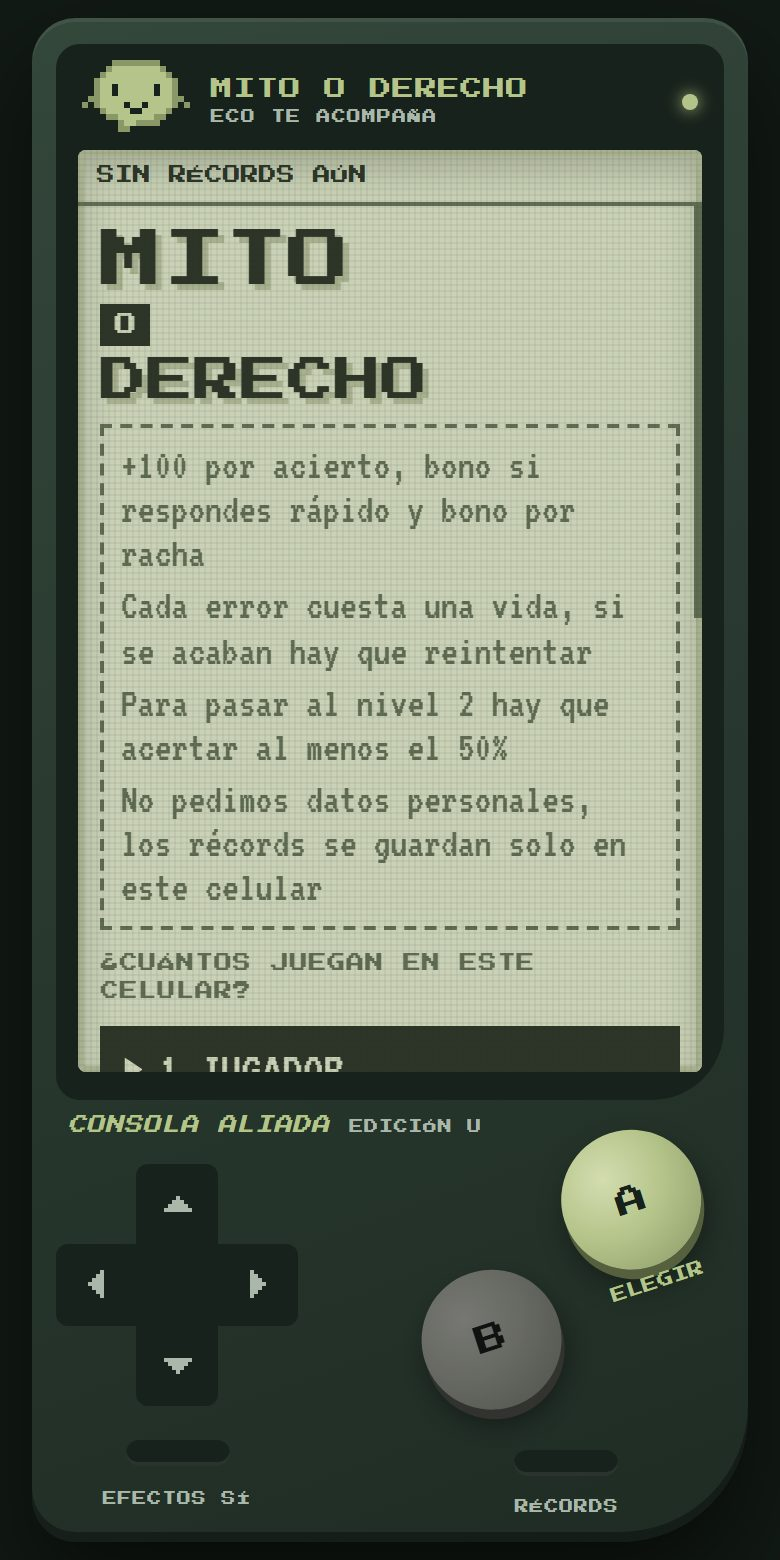
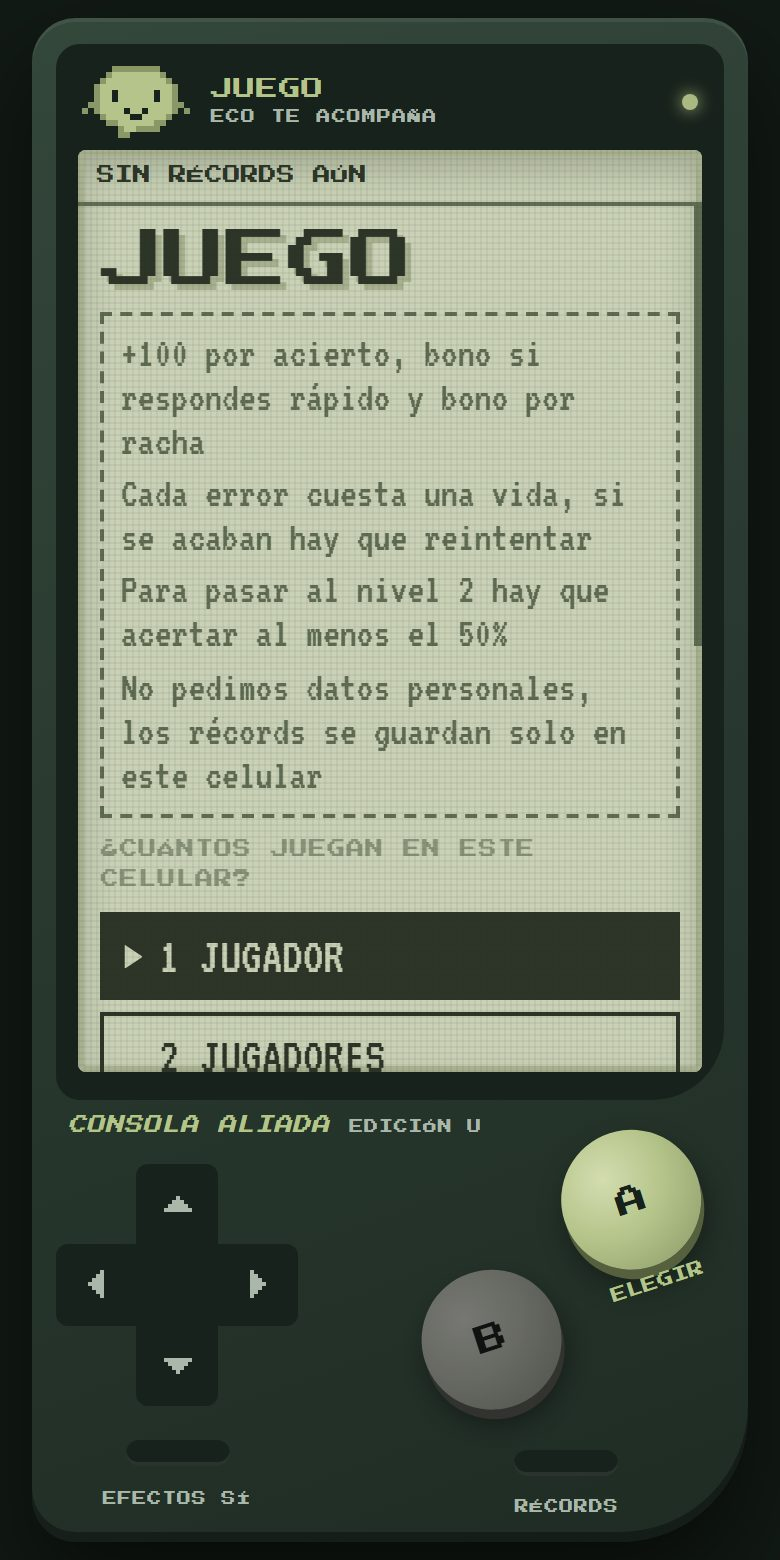
El juego se llama solo Juego mientras se vota, sin Parcerx; fuente de la lengua de señas
- contenido.js: nombre Juego; la lengua de señas cita la Ley 324 de 1996 y la Ley 982 de 2005
- Plana sin personaje mientras se vota; la arcade toma el nombre de contenido.js
- Capturas de la sección rehechas con el nombre nuevo

diff --git a/public/juego/arcade/index.html b/public/juego/arcade/index.html
@@ -1,5 +1,5 @@
 <!doctype html><html><head><meta charset=utf8><meta name=viewport content="width=device-width,initial-scale=1,viewport-fit=cover"><style>:root{color-scheme:light;box-sizing:border-box;padding-top:env(safe-area-inset-top,0px);padding-bottom:env(safe-area-inset-bottom,0px)}html{scroll-padding-top:env(safe-area-inset-top,0px)}body{margin:0;padding:0;font:14px -apple-system,BlinkMacSystemFont,sans-serif;background:#fff;color:#000}img{max-width:100%}[hidden]:not([hidden=until-found i]){display:none!important}</style></head><body>
-<title>Mito o Derecho Arcade</title>
+<title>Juego · Arcade</title>
 <meta name="claude:viewport-fit-sides" content="cover">
 <link rel="preconnect" href="https://fonts.googleapis.com">
 <link rel="preconnect" href="https://fonts.gstatic.com" crossorigin>
@@ -330,7 +330,7 @@ svg.px { display: block; shape-rendering: crispEdges; flex: none; }
 <div class="wrap">
   <div class="console">
     <div class="bezel">
-      <div class="bezel-top"><canvas class="mascot" id="mascot" width="18" height="12" aria-hidden="true"></canvas><div class="wordmark"><b>MITO O DERECHO</b><span class="say" id="say">ECO TE ACOMPAÑA</span></div><button type="button" class="menu-btn" id="btn-menu" hidden>MENÚ</button><span class="led" aria-hidden="true"></span></div>
+      <div class="bezel-top"><canvas class="mascot" id="mascot" width="18" height="12" aria-hidden="true"></canvas><div class="wordmark"><b>JUEGO</b><span class="say" id="say">ECO TE ACOMPAÑA</span></div><button type="button" class="menu-btn" id="btn-menu" hidden>MENÚ</button><span class="led" aria-hidden="true"></span></div>
       <div class="lcd" id="lcd">
         <div class="hud" id="hud"></div>
         <div class="screen" id="screen" aria-live="polite"></div>
@@ -441,6 +441,7 @@ const STREAK_STEP = RG.racha;    // bono por cada acierto seguido
 const ALLY_PTS = RG.aliado;      // por cada situación de la parte 2
 const LIFE_PTS = RG.vida;        // bono final por cada vida que quede
 const GOAL = RG.meta;            // porcentaje mínimo de aciertos para pasar al nivel 2
+const GAME_NAME = J ? J.nombre : "Juego";
 const livesFor = (m, n) => J ? J.vidasDe(m, n) : m === "coop" ? n + 1 : RG.vidas;
 const goalTxt = "META " + Math.round(GOAL * 100) + "%";
 const HELP = J ? J.ayuda : [
@@ -928,9 +929,9 @@ function title() {
   phase = "title";
   clear(); hud();
   const logo = el("div", "logo");
-  logo.appendChild(el("span", "m", "MITO"));
-  logo.appendChild(el("span", "o", "O"));
-  logo.appendChild(el("span", "d", "DERECHO"));
+  const nm = GAME_NAME.toUpperCase().split(" ");
+  if (nm.length === 3) { logo.appendChild(el("span", "m", nm[0])); logo.appendChild(el("span", "o", nm[1])); logo.appendChild(el("span", "d", nm[2])); }
+  else logo.appendChild(el("span", "m", nm.join(" ")));
   screen.appendChild(logo);
   eco("idle", "ECO TE ACOMPAÑA");
   const rules = el("div", "rules");
@@ -1365,7 +1366,7 @@ function results_() {
 
   const best = mode === "versus" ? Math.max(...scores) : team();
   const msg = [
-    (players === 1 ? "Mi perfil" : mode === "coop" ? "El perfil de nuestro equipo" : "El perfil de nuestro grupo") + " de aliado en Mito o Derecho es " + prof.name,
+    (players === 1 ? "Mi perfil" : mode === "coop" ? "El perfil de nuestro equipo" : "El perfil de nuestro grupo") + " de aliado en " + GAME_NAME + " es " + prof.name,
     prof.phrase,
     "Para mañana: " + prof.action,
     players === 1 ? "Hice " + best + " puntos" : mode === "coop" ? "Hicimos " + best + " puntos en equipo" : "El mejor puntaje fue " + best,
@@ -1579,6 +1580,8 @@ try { savedPal = localStorage.getItem("moda-palette") || "musgo"; } catch (e) {}
 applyPalette(savedPal);
 paintSound();
 title();
+document.querySelector(".wordmark b").textContent = GAME_NAME.toUpperCase();
+document.title = GAME_NAME + " · Arcade";
 if (J) J.cargar();
 </script>
 

diff --git a/public/juego/plana/index.html b/public/juego/plana/index.html
@@ -3,7 +3,7 @@
 <head>
 <meta charset="utf-8">
 <meta name="viewport" content="width=device-width, initial-scale=1">
-<title>Mito o Derecho · ACUDE</title>
+<title>Juego · ACUDE</title>
 <meta name="description" content="Juego sobre diversidad, género e inclusión en el TdeA, construido clase a clase por estudiantes del ACUDE Herramientas de IA">
 <link rel="preconnect" href="https://fonts.googleapis.com">
 <link rel="preconnect" href="https://fonts.gstatic.com" crossorigin>
@@ -19,7 +19,7 @@
    vive en juego/contenido.js; aquí queda solo lo propio de la versión plana */
 const J = window.JUEGO;
 const CONFIG = Object.assign({}, J, {
-  personaje: "Parcerx",                     // Sábado 10-12: personaje y tono
+  personaje: "",                           // Sábado 10-12: personaje y tono, se vota; vacío mientras tanto
   bienvenida: "No te pregunto lo que sabes\nte pregunto lo que harías",
   version: "v0.3",
   // Música de fondo, la misma de la versión arcade
@@ -188,8 +188,8 @@ const partes = t => (t||"").split("||").map(x=>x.trim()).filter(Boolean);
 const esc = t => String(t||"").replace(/[&<>"]/g, c=>({"&":"&amp;","<":"&lt;",">":"&gt;",'"':"&quot;"}[c]));
 const de = tipo => DATOS.filter(r => (r.tipo||"").toLowerCase().trim()===tipo && (r.estado||"").toLowerCase()!=="descartada");
 const quieto = () => window.matchMedia("(prefers-reduced-motion: reduce)").matches;
-const guardar = (k, v) => { try { localStorage.setItem("vuelta-" + k, v); } catch (e) {} };
-const leer = k => { try { return localStorage.getItem("vuelta-" + k); } catch (e) { return null; } };
+const guardar = (k, v) => { try { localStorage.setItem("juego-" + k, v); } catch (e) {} };
+const leer = k => { try { return localStorage.getItem("juego-" + k); } catch (e) { return null; } };
 
 async function cargarHoja(){
   if (await J.cargar()) { DATOS = J.filas; $("#ver").textContent = CONFIG.version + " · en vivo"; }
@@ -457,7 +457,7 @@ function inicio(){
   titulo.append(h("span", { class: "l" }, n.at(-1)));
   const mejor = cargarRecords()[0];
   pantalla(
-    etq(CONFIG.personaje + " te invita"),
+    etq(CONFIG.personaje ? CONFIG.personaje + " te invita" : "Te damos la bienvenida"),
     titulo,
     h("p", { class: "lead" }, CONFIG.bienvenida),
     h("span", { class: "chip-rec" }, mejor ? "Récord de este celular: " + mejor.ini + " · " + mejor.pts : "Todavía no hay récords en este celular"),
@@ -469,7 +469,7 @@ function inicio(){
       h("ul", {}, CONFIG.creditos.length ? CONFIG.creditos.map(c => h("li", {}, c)) : h("li", {}, "Todavía nadie, ¿lo construimos?")),
       h("p", { class: "nota" }, "Estudiantes del ACUDE Herramientas de IA, TdeA 2026-2", h("br"), "Contenido por validar con Bienestar Universitario"))
   );
-  voz("calma", "te acompaña");
+  voz("calma", CONFIG.personaje ? "te acompaña" : "¿jugamos?");
 }
 
 function cuantos(){
@@ -921,7 +921,7 @@ function preguntale(){
   fase = "inicio"; enInicio = false;
   pararReloj();
   const lista = de("pregunta");
-  $("#vista").innerHTML = `<button class="volver" onclick="inicio()">← Volver</button><h2>Pregúntale a ${esc(CONFIG.personaje)}</h2>
+  $("#vista").innerHTML = `<button class="volver" onclick="inicio()">← Volver</button><h2>Pregúntale${CONFIG.personaje ? " a " + esc(CONFIG.personaje) : ""}</h2>
     <p class="lead" style="margin-bottom:14px">Respuestas cortas que siempre te llevan a la ruta oficial</p>
     ${CONFIG.funciones.buscador ? `<input class="buscar" id="q" placeholder="Escribe tu duda…" oninput="filtrar()">` : ""}
     <div class="faq" id="faq">${lista.map(r=>`<details data-t="${esc((r.texto+" "+r.explicacion).toLowerCase())}"><summary>${esc(r.texto)}</summary><p>${esc(r.explicacion)}<br><span class="ruta">→ ${esc(r.ruta||"Bienestar Universitario")}</span></p></details>`).join("")}</div>`;

diff --git a/public/juego/contenido.js b/public/juego/contenido.js
@@ -1,12 +1,12 @@
 /* ==========================================================
-   MITO O DERECHO · lo que comparten las dos versiones del juego
+   JUEGO · lo que comparten las dos versiones del juego
    La versión plana (juego/plana/) y la arcade (juego/arcade/) leen este archivo:
    el contenido, las reglas y las funciones encendidas son las mismas,
    lo único que cambia es la interfaz
    ========================================================== */
 window.JUEGO = (() => {
   const J = {
-    nombre: "Mito o Derecho",               // Martes: se vota en el chat
+    nombre: "Juego",                        // Martes: se vota en el chat; mientras tanto se llama solo Juego
     creditos: [],                           // cada grupo agrega su línea, ej: "Martes · nombre y mitos"
     // Hoja de Google con el contenido (compartida como "cualquier persona con el enlace puede ver")
     // Pega aquí solo el ID que va entre /d/ y /edit en el enlace de la hoja
@@ -50,7 +50,7 @@ window.JUEGO = (() => {
       {"tipo": "mito", "texto": "Burlarse del acento de alguien de otra región es solo recocha", "opciones": "", "correcta": "mito", "explicacion": "Los regionalismos y las expresiones culturales son parte de la inclusión que el TdeA se comprometió a cuidar", "ruta": "Pluridiversos", "fuente": "Res. Académica 002 de 2023, TdeA (Educación Superior Inclusiva e Intercultural)", "estado": "por validar"},
       {"tipo": "mito", "texto": "Si no me pasó a mí, no puedo buscar orientación", "opciones": "", "correcta": "mito", "explicacion": "Si lo viste también puedes buscar orientación en Bienestar", "ruta": "Bienestar Universitario", "fuente": "Por confirmar con Bienestar", "estado": "por validar"},
       {"tipo": "mito", "texto": "Si una persona no parece tener una discapacidad, no puede pedir ajustes", "opciones": "", "correcta": "mito", "explicacion": "Hay discapacidades y condiciones que no se ven, y también tienen derecho a ajustes razonables", "ruta": "Ruta de ajustes razonables, Pluridiversos", "fuente": "Ley 1618 de 2013", "estado": "por validar"},
-      {"tipo": "mito", "texto": "La lengua de señas colombiana está reconocida por la ley", "opciones": "", "correcta": "derecho", "explicacion": "Está reconocida como la lengua de la comunidad sorda en Colombia", "ruta": "Pluridiversos", "fuente": "Ley 982 de 2005", "estado": "por validar"},
+      {"tipo": "mito", "texto": "La lengua de señas colombiana está reconocida por la ley", "opciones": "", "correcta": "derecho", "explicacion": "Está reconocida como la lengua de la comunidad sorda en Colombia", "ruta": "Pluridiversos", "fuente": "Ley 324 de 1996 y Ley 982 de 2005", "estado": "por validar"},
       {"tipo": "mito", "texto": "Colombia se reconoce como un país con diversidad étnica y cultural", "opciones": "", "correcta": "derecho", "explicacion": "Lo dice la Constitución, y el TdeA trabaja con enfoque en etnias y pueblos originarios", "ruta": "Pluridiversos", "fuente": "Constitución Política, art. 7", "estado": "por validar"},
       {"tipo": "mito", "texto": "Todas las personas tienen derecho al libre desarrollo de su personalidad", "opciones": "", "correcta": "derecho", "explicacion": "Cómo te vistes, cómo te ves y cómo vives tu identidad hacen parte de ese derecho", "ruta": "Pluridiversos", "fuente": "Constitución Política, art. 16", "estado": "por validar"},
       {"tipo": "mito", "texto": "Si alguien se viste distinto, es normal que el grupo opine", "opciones": "", "correcta": "mito", "explicacion": "Opinar del cuerpo o la ropa de alguien sin que lo pida puede hacerle daño, el respeto va primero", "ruta": "Pluridiversos", "fuente": "Constitución Política, art. 16", "estado": "por validar"},

diff --git a/public/juego/prueba/index.html b/public/juego/prueba/index.html
@@ -3,7 +3,7 @@
 <head>
 <meta charset="utf-8">
 <meta name="viewport" content="width=device-width, initial-scale=1">
-<title>Mito o Derecho · ACUDE</title>
+<title>Juego · ACUDE</title>
 <meta http-equiv="refresh" content="0; url=../">
 <link rel="canonical" href="https://natacastanoh.github.io/ACUDE/juego/">
 <style>body{background:#0F1C16;color:#F4F7F1;font:17px system-ui,sans-serif;padding:24px 16px}a{color:#D7F65A}</style>
